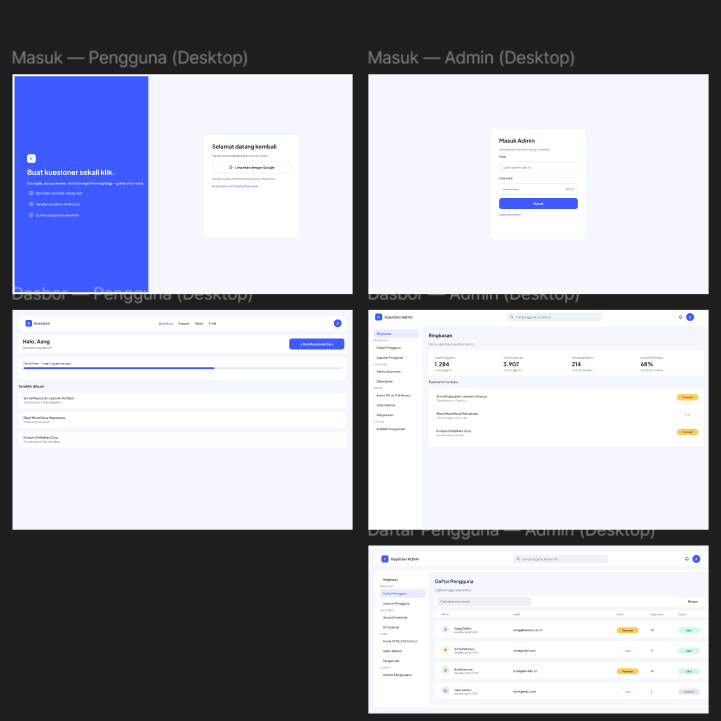
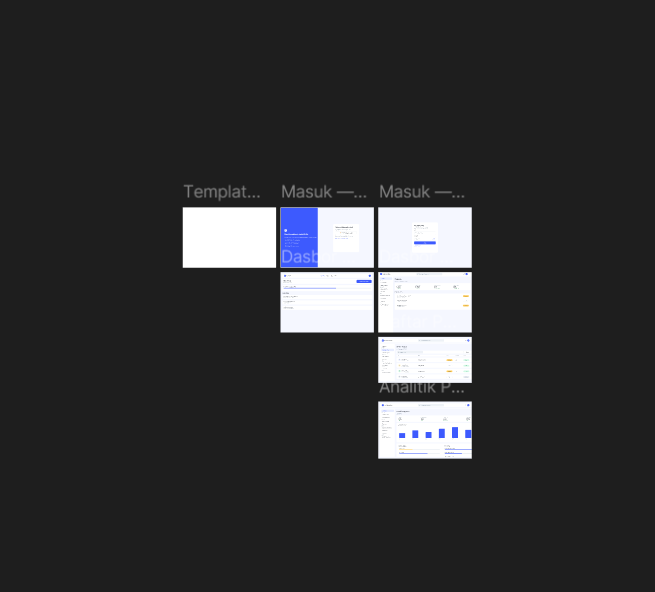
docs: cap output.png at 750x750 and refresh image

diff --git a/README.md b/README.md
@@ -32,7 +32,7 @@ Open-source · fully local · no cloud, no telemetry · works with Claude Code, 
 > No hand‑placed layers. An agent was asked to design a hard‑water hair‑care brand and built it all **directly in Figma** through AIConnect — a landing page, a product page, and four full design‑direction boards, each assembled with `batch_ops`.
 
 <div align="center">
-<img src="assets/screenshots/output.png" width="100%" alt="A full brand designed by an AI agent in Figma through AIConnect — landing page, product page, and design-direction boards" />
+<img src="assets/screenshots/output.png" width="750" height="750" alt="A full brand designed by an AI agent in Figma through AIConnect — landing page, product page, and design-direction boards" />
 </div>
 
 ---
